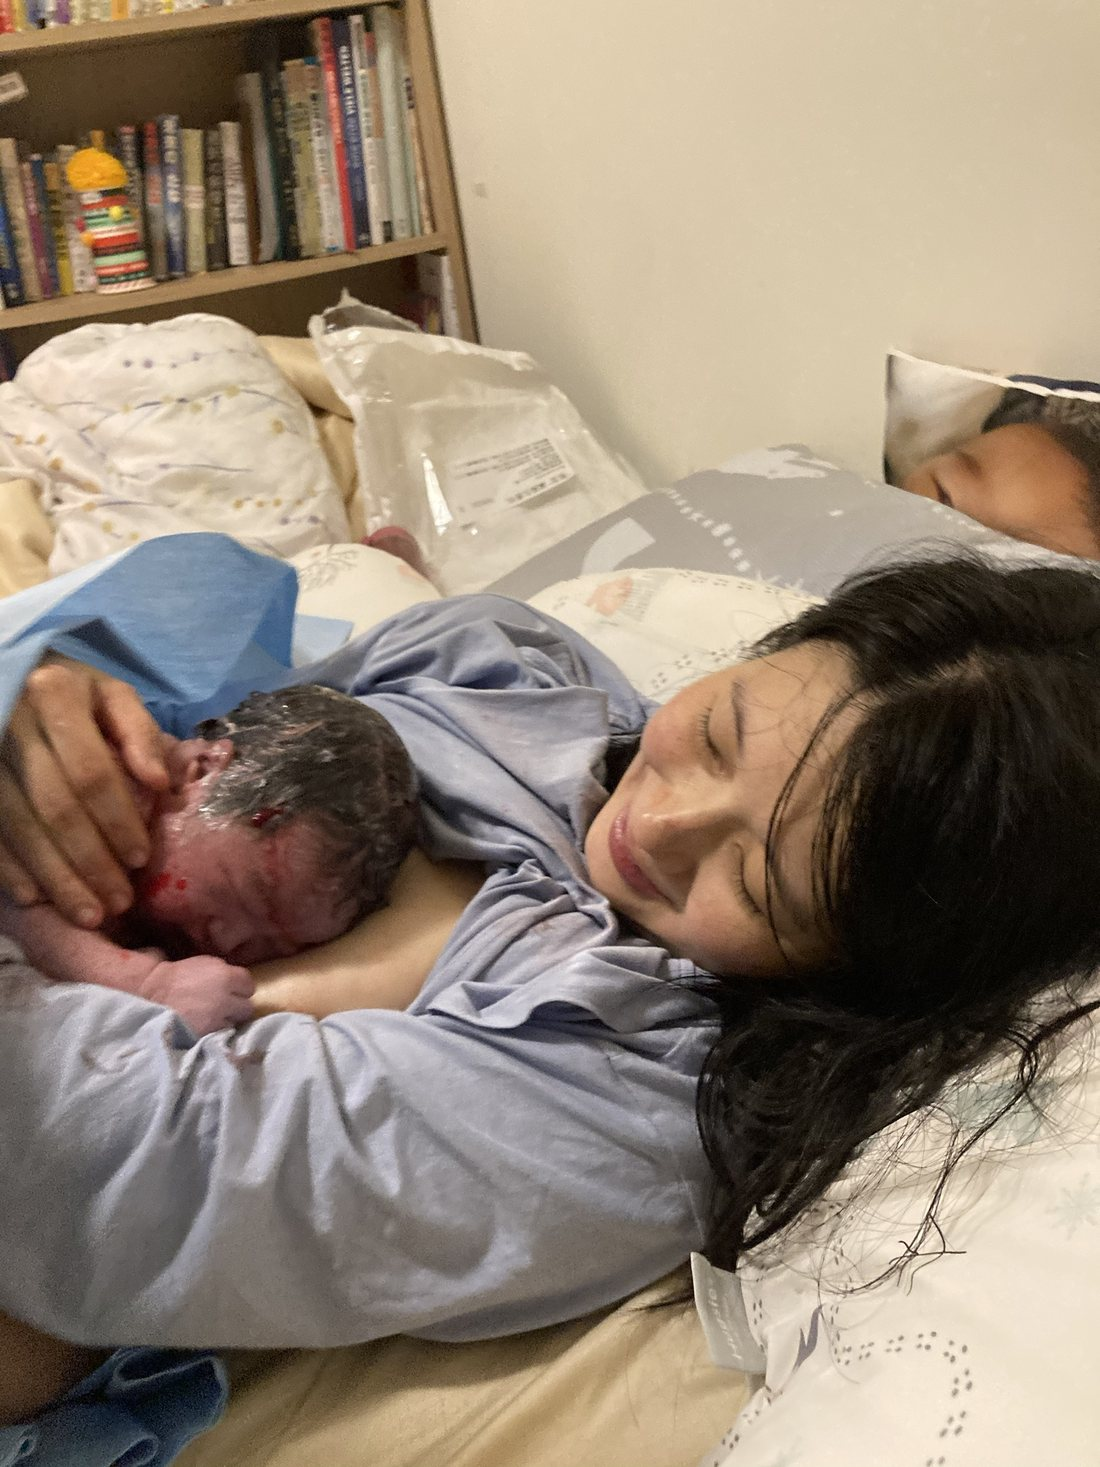
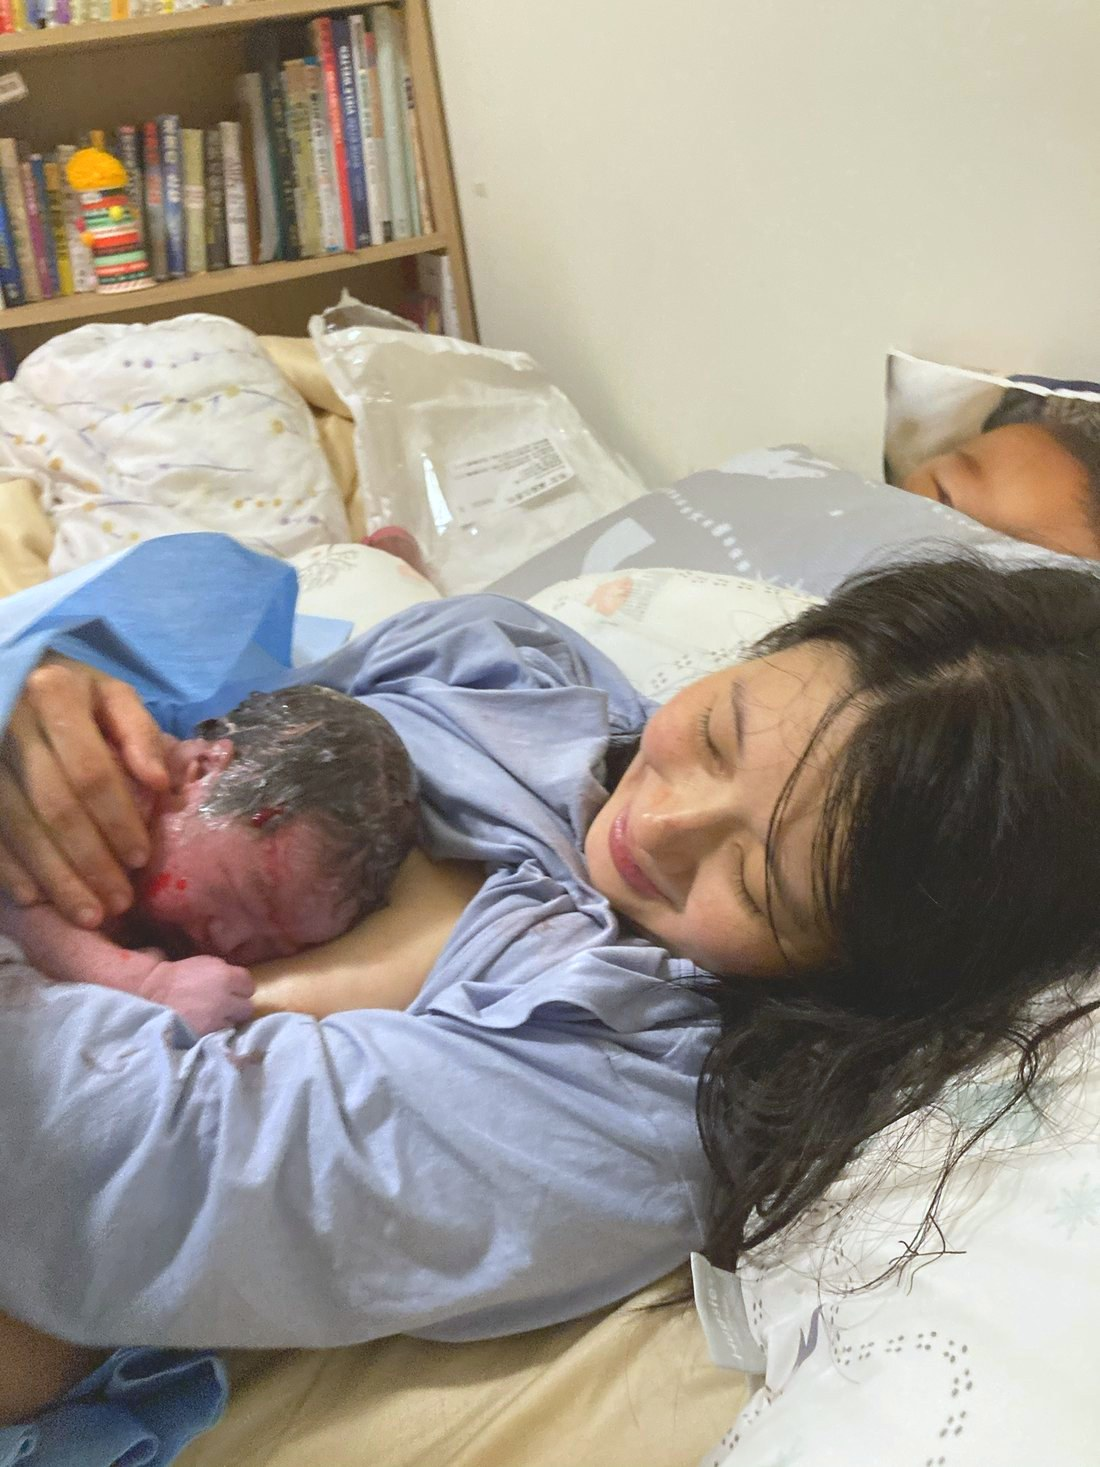
關於我：兩張生產照統一色調（柔霧暖調、低飽和），拿掉浴缸孕期照

diff --git a/about/index.html b/about/index.html
@@ -117,8 +117,7 @@
 
   <section class="svc-section alt">
     <div class="container reveal">
-      <div class="pgrid c3">
-        <figure><img class="tall" src="../images/about-bath.jpg" alt="孕期的 Milliya 躺在浴缸裡，手放在肚子上，身旁有一束小花" loading="lazy" style="object-position:78% center;"><figcaption>孕期的我</figcaption></figure>
+      <div class="pgrid c2" style="max-width:680px;">
         <figure><img class="tall" src="../images/about-water-birth.jpg" alt="Milliya 在德國不來梅 Bremen Geburtshaus 的水中生產：在水裡抱著剛出生的寶寶，身旁是丈夫" loading="lazy" style="object-position:62% center;"><figcaption>德國不來梅 Bremen Geburtshaus・水中生產</figcaption></figure>
         <figure><img class="tall" src="../images/about-home-birth.jpg" alt="Milliya 在台灣的家中生產後，閉著眼把剛出生的寶寶抱在胸前，身後是書牆" loading="lazy" style="object-position:58% 65%;"><figcaption>台灣新北・居家生產</figcaption></figure>
       </div>
